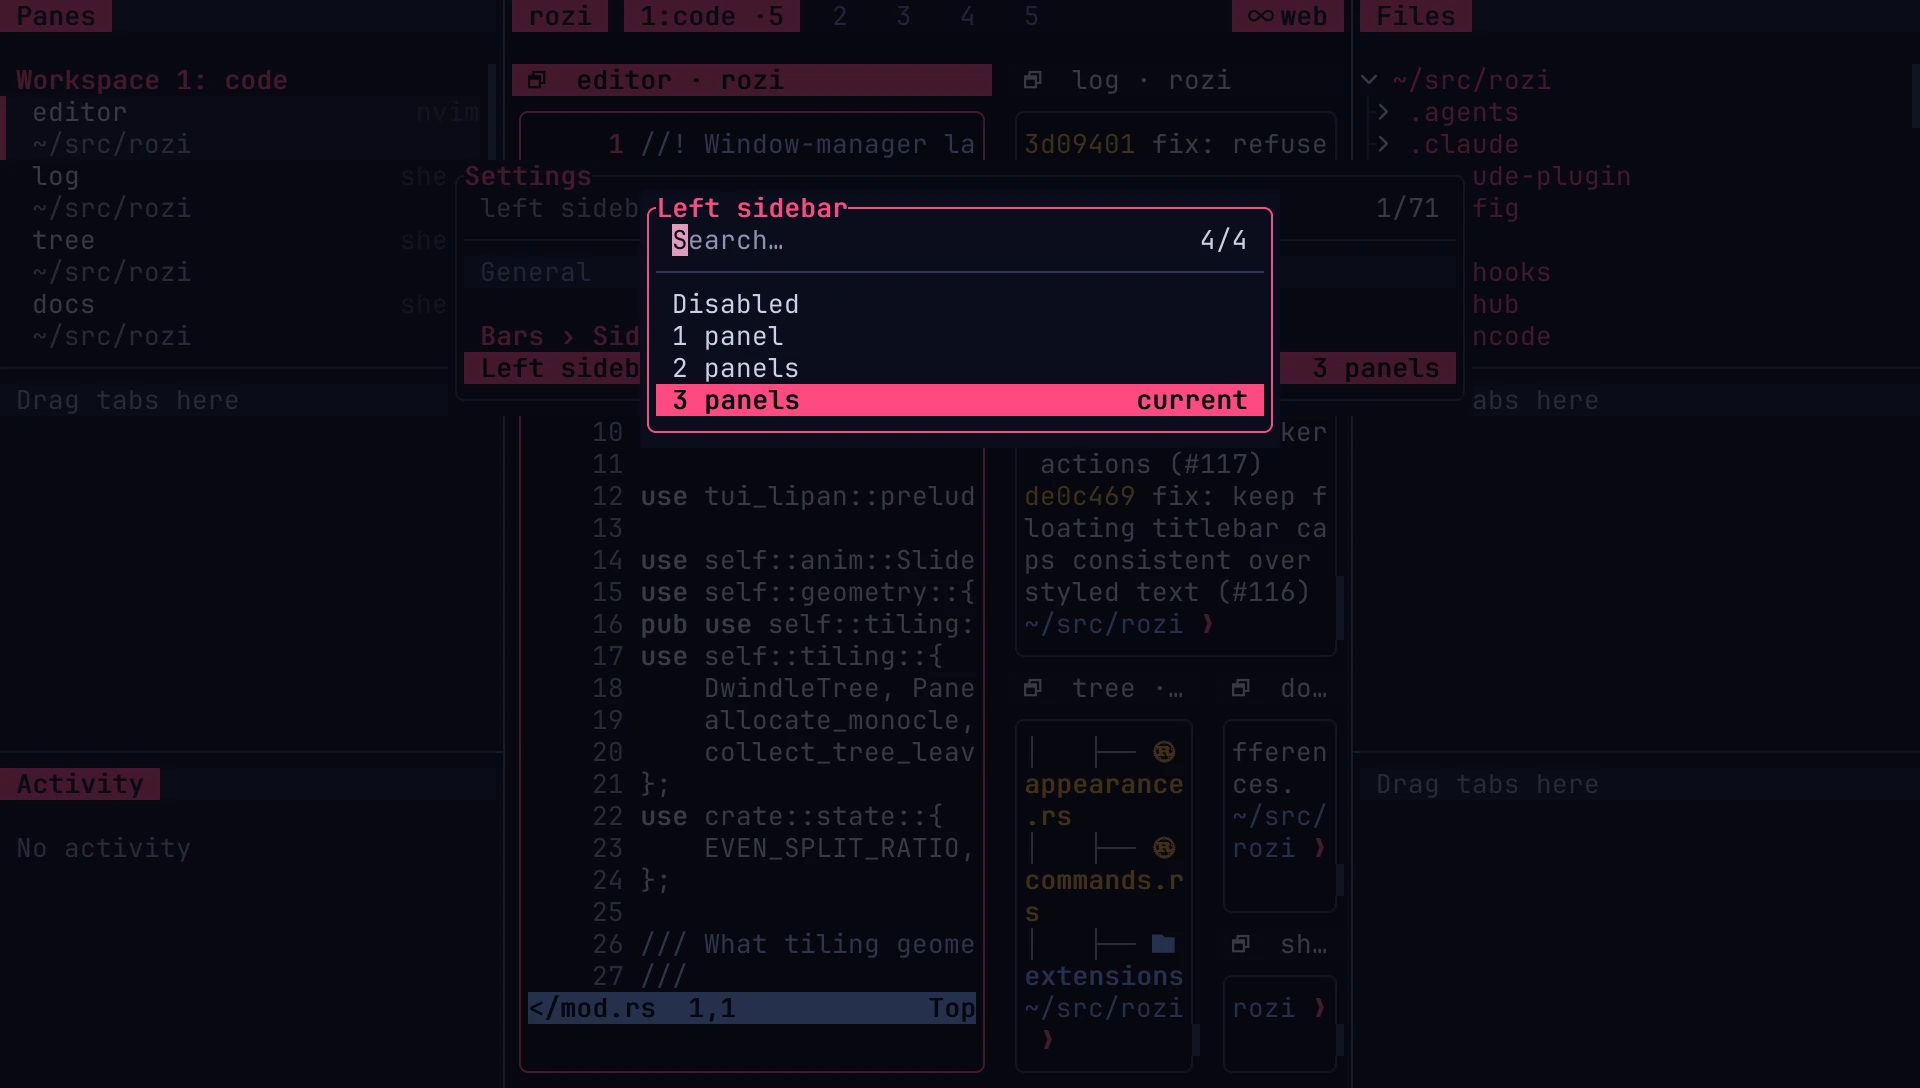
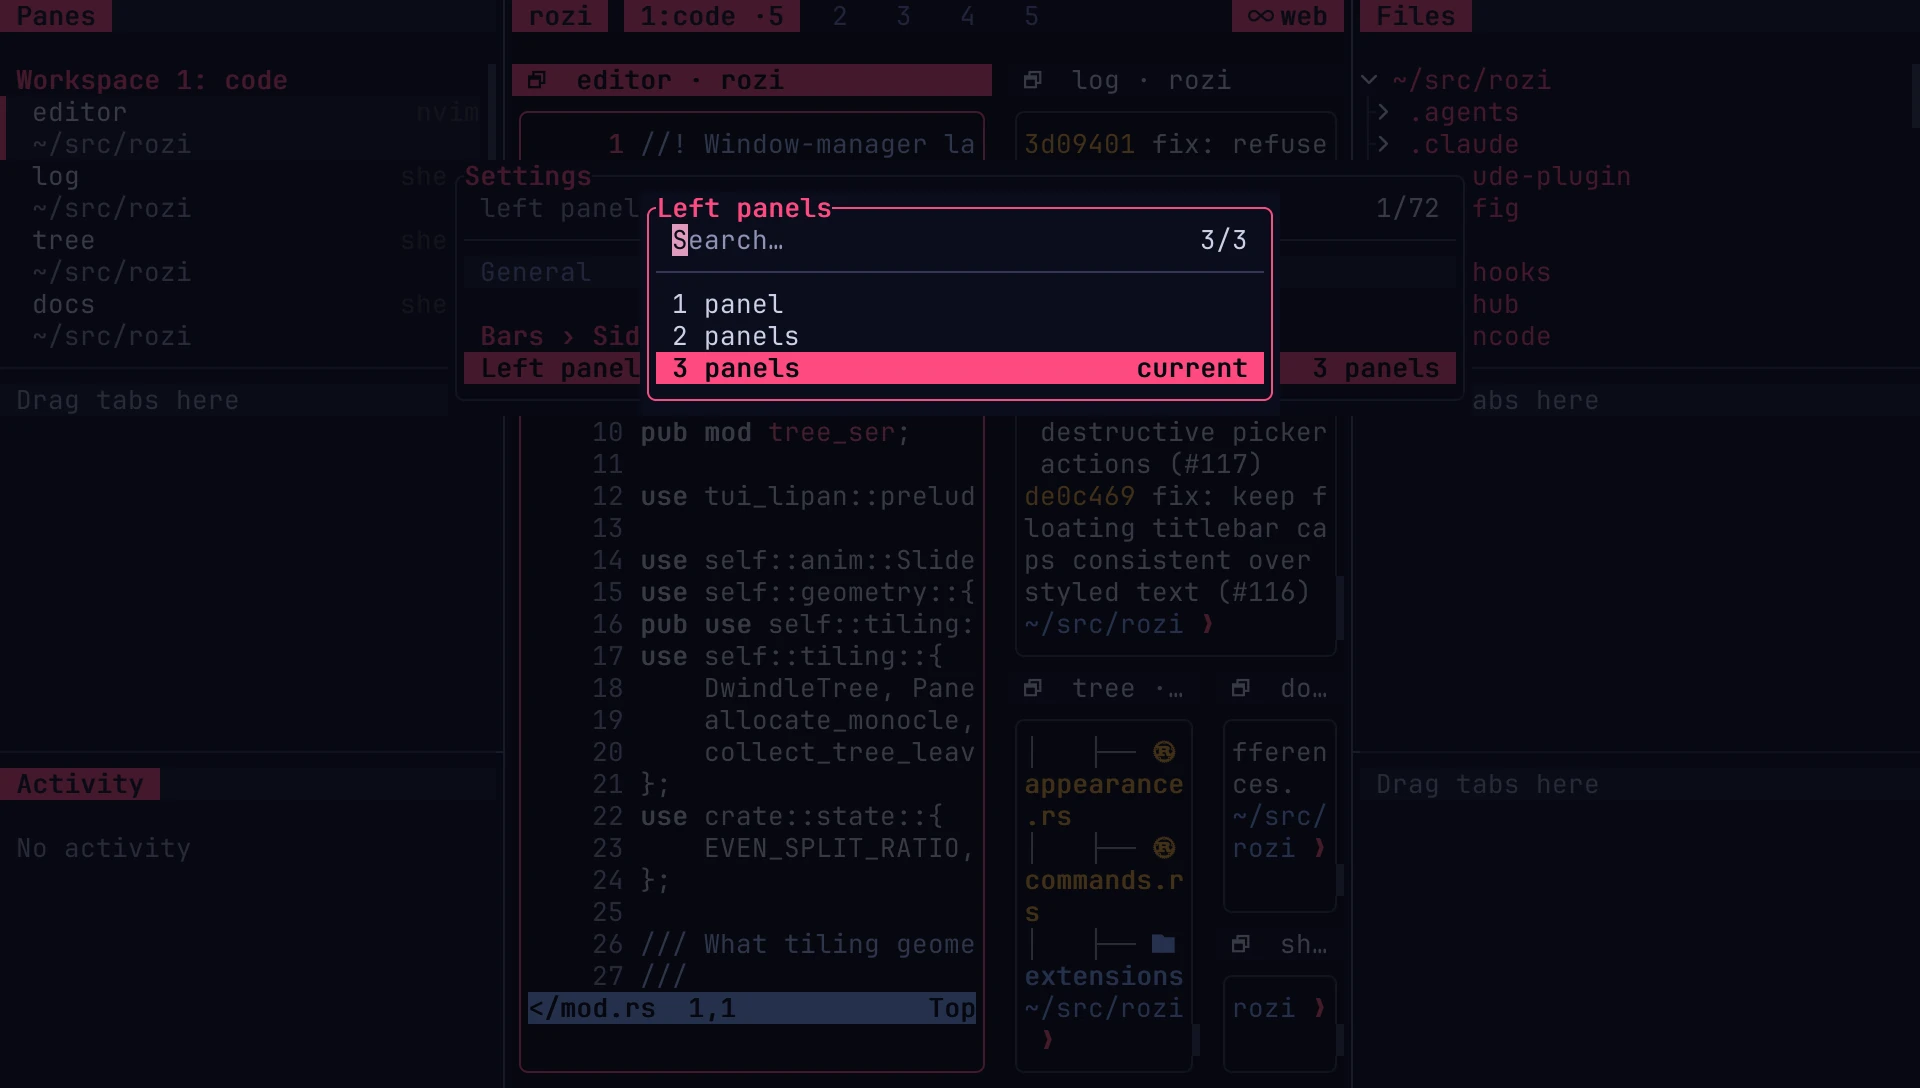
docs: illustrate sidebar startup and visibility settings

Changed region(s): [[0.3125, 0.2812, 0.6875, 0.4062], [0.375, 0.1875, 0.4375, 0.2188]]

diff --git a/docs/sidebar.md b/docs/sidebar.md
@@ -23,14 +23,28 @@ While the sidebar is visible, these command keys work without focusing it:
 | `PageDown` | Next tab |
 | `PageUp` | Previous tab |
 
-Open **Settings… → Bars → Left sidebar…** or **Right sidebar…** to choose **Disabled**, **1 panel**,
-**2 panels**, or **3 panels**. Highlighting a choice leaves the layout unchanged; Enter applies and
-saves it. Escape cancels. Disabled preserves panel assignments, counts, weights, and width for
-later use. The global `b` command temporarily hides or restores the current dock combination.
+Open **Settings… → Bars → Left panels…** or **Right panels…** to choose one to three panels.
+Highlighting a choice leaves the layout unchanged; `Enter` applies and saves it. `Esc` cancels.
+Panel-count changes preserve hidden docks and dormant tab assignments.
+
+**Sidebars at startup…** chooses **None**, **Left**, **Right**, or **Both** for the next client launch.
+Changing it or reloading the configuration never opens or closes the current client's sidebars.
+Both docks always exist structurally, including empty docks that accept dragged tabs.
+
+The `b` command hides the shown docks and brings the same combination back. **Show/Hide left
+sidebar** and **Show/Hide right sidebar** in the command palette toggle one dock independently;
+these actions have no default keys and can be bound. Hiding the last dock remembers that dock:
+show both, hide Right, then hide Left, and `b` brings back only Left. Showing one dock while both
+are hidden shows only the requested dock.
+
+On first use, when no combination has been remembered, `b` shows docks with enabled, available
+tabs, or Left if every dock is empty. `B` restores visibility if needed, shows the remembered
+panel's dock, and focuses that panel. Showing an empty dock explicitly exposes its drag target.
 
 <CaptureGallery title="Sidebar settings" mode="steps">
-<img src="./assets/captures/sidebar-settings.webp" alt="Settings filtered to the sidebar, with Left sidebar, Right sidebar, and Sidebar tabs entries" data-label="Settings" data-caption="Choose each sidebar independently from Settings.">
-<img src="./assets/captures/sidebar-panels.webp" alt="Left sidebar choices: Disabled, 1 panel, 2 panels, and 3 panels" data-label="Panels" data-caption="Enter applies a panel count; Escape cancels without rearranging the workspace.">
+<img src="./assets/captures/sidebar-settings.webp" alt="Settings filtered to the sidebar, with Left panels, Right panels, startup visibility, and Sidebar tabs entries" data-label="Settings" data-caption="Configure panel counts and startup visibility independently.">
+<img src="./assets/captures/sidebar-panels.webp" alt="Left panel count choices: 1 panel, 2 panels, and 3 panels" data-label="Panels" data-caption="Enter applies a panel count; Escape cancels without rearranging the workspace.">
+<img src="./assets/captures/sidebar-startup.webp" alt="Sidebars at startup choices: None, Left, Right, and Both" data-label="Startup" data-caption="Startup visibility applies to the next client launch.">
 </CaptureGallery>
 
 Clicking a row runs its action without moving keyboard focus away from the pane. The sidebar is not
@@ -61,8 +75,8 @@ After the `B` command key focuses the sidebar:
 With the mouse, drag the sidebar's outer edge to resize it, within the same 16 to 80 columns that
 `width` allows. Drag the divider between panels to change the split.
 
-rozi saves tab order, visibility preferences, placement, dock widths, panel counts, and panel weights
-to `config.toml`.
+rozi saves tab order, tab visibility, startup visibility, placement, dock widths, panel counts, and
+panel weights to `config.toml`.
 Whether the sidebar is visible and which tab is selected are not saved.
 
 ## Activity
@@ -214,15 +228,16 @@ are starting configurations, so later edits remain yours.
 
 Individual dock toggles and dock navigation remain bindable through `toggle-left-sidebar`,
 `toggle-right-sidebar`, `sidebar-other-dock`, and `sidebar-move-to-other-dock`. The command palette
-keeps the global sidebar toggle, **Focus sidebar**, and **Sidebar tabs…**.
+lists the global and individual sidebar toggles, **Focus sidebar**, and **Sidebar tabs…**.
 
 ```toml
 [sidebar]
+startup = "left"
 tabs = ["activity", "panes", "sessions", "files", "git", "worktrees"]
-layout = { left = { visible = true, width = 32, panel_count = 2, panels = [
+layout = { left = { width = 32, panel_count = 2, panels = [
   { weight = 0.4, tabs = ["activity", "panes", "sessions"] },
   { weight = 0.6, tabs = ["files", "git", "worktrees"] },
-] }, right = { visible = false, width = 32, panel_count = 1, panels = [{ weight = 1.0, tabs = [] }] }, hidden = [] }
+] }, right = { width = 32, panel_count = 1, panels = [{ weight = 1.0, tabs = [] }] }, hidden = [] }
 background_follows_canvas = false
 gap = true
 background = true
@@ -243,10 +258,14 @@ same appearance controls as the former sidebar.
 ### Migrate an existing configuration
 
 The former `visible`, `width`, `position`, `panels`, `split`, and `split_ratio` keys produce an explicit
-migration diagnostic. rozi resolves them into `layout` in memory, preserving unknown tab IDs and
-custom definitions. The next layout save writes `layout` and removes those geometry keys. You can
-also replace them manually using the example above. An explicit `layout` takes precedence. Saves
-preserve tab definitions and unrelated settings; malformed TOML is reported and left untouched.
+migration diagnostic. rozi resolves them into `layout` and `startup` in memory, preserving unknown
+tab IDs and custom definitions. The next layout save writes the new schema and removes those
+geometry keys. You can also replace them manually using the example above. An explicit `layout`
+takes precedence.
+
+The former `layout.<dock>.visible` flags also migrate to `sidebar.startup`; an explicit `startup`
+takes precedence. Saves preserve tab definitions and unrelated settings. Malformed TOML is
+reported and left untouched.
 
 When `background` is on, the tab strip uses a raised sidebar fill, or the `element` colour when
 `background_follows_canvas` is on.
